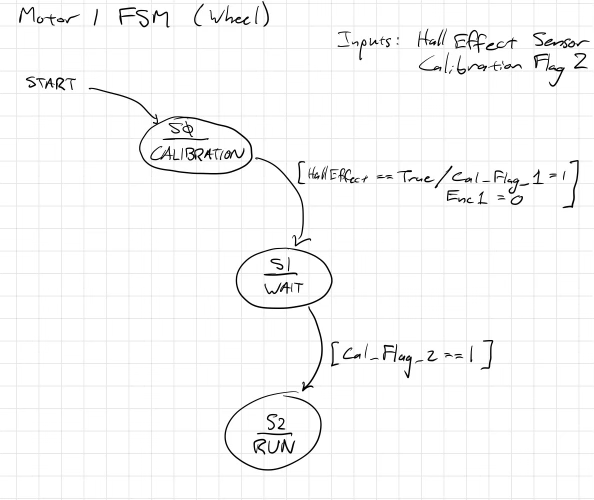
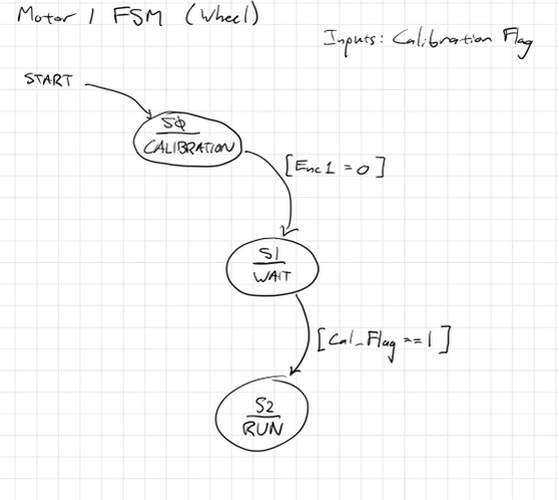
update

diff --git a/src/mainpage.py b/src/mainpage.py
@@ -17,29 +17,27 @@
 #
 # @subsection ss_taskdiagram Task Diagram 
 # \image html Task_Diagram.png "Task Diagram" width=750cm
-# This is a task diagram for our pen plotter. The eack motor task runs its own motor driver, 
+# This is a task diagram for our pen plotter. Each motor task runs its own motor driver, 
 # encoder driver, and controller.
-# A calibration flags will be shared between the tasks to start plotting only after both 
+# A calibration flag will be shared between the tasks to start plotting only after both 
 # motors have been calibrated.
 #
 #
 #
 # @subsection ss_fsm1 Motor 1 State Transition Diagram
 # \image html Motor_1_FSM.png "Motor 1 Finite State Machine" width=750cm 
-# Our State Transition Diagram for Motor 1 has a calibration state, a wait state, and a run state. 
+# Our State Transition Diagram for Motor 1 has a calibration state and a run state. 
 # When the Motor 1 task is run, the FSM starts in the calibration state to zero the position of the motor 
-# using the hall effect sensor. Once the hall effect sensor flag is true, the FSM moves to the wait state to 
-# wait for the Motor 2 to finish calibrating before moving to the run state to begin plotting. Once in the 
+# using a limit switch. Once the limit switch flag is true, the FSM moves to the run state to begin plotting. Once in the 
 # run state, the motor 1 task runs until the plotting is completed. 
 #
 #
 #
 # @subsection ss_fsm2 Motor 2 State Transition Diagram
 # \image html Motor_2_FSM.png "Motor 2 Finite State Machine" width=750cm
-# Our State Transition Diagram for Motor 2 is very similar to motor 1 as it has a calibration state, a wait state, 
-# and a run state. When the Motor 2 task is run, the FSM starts in the calibration state to zero the position of 
-# the motor using the limit switch. Once the limit switch flag is true, the FSM moves to the wait state to 
-# wait for the Motor 1 to finish calibrating before moving to the run state to begin plotting. Once in the 
-# run state, the motor 2 task runs until the plotting is completed. 
+# Our State Transition Diagram for Motor 2 is very similar to motor 1 as it has a calibration state, and a run state. 
+# When the Motor 2 task is run, the FSM starts in the calibration state to zero the position of 
+# the motor using the limit switch. Once the limit switch flag is true, the FSM moves to the run state to begin plotting. 
+# Once in the run state, the motor 2 task runs until the plotting is completed. 
 
 
